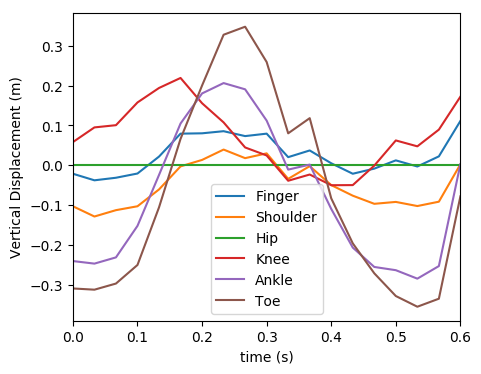
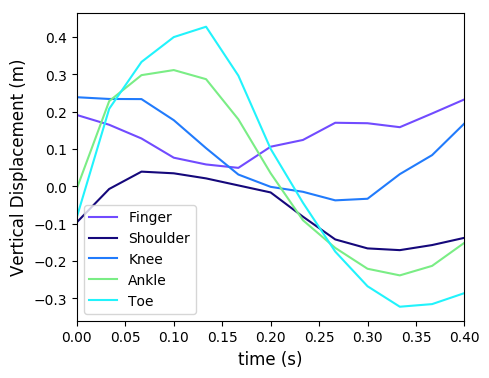
Add files via upload

diff --git a/plotdata.py b/plotdata.py
@@ -1,36 +1,38 @@
-
-import matplotlib.pyplot as plt
 import numpy as np
 
 def plot_data(data, only_keys, mean, p_values):
+
+    #Bug that crashes python when Tk instance 
+    import matplotlib.pyplot as plt  
 
 
     fig1, ax1 = plt.subplots(nrows = 1, ncols=1, figsize=(5,4)) 
 
     # Plot Standard Imported Data
-    data_toplot = data
+    data_toplot = data.drop(['Hip'], axis=1)
     data_toplot.index = data_toplot['t']
+    ax1.set_prop_cycle(color=['#714bff','#15087b','#217bfc','#7aed85','#21f3fc'])
     data_toplot.iloc[:,1:].plot(ax=ax1)
-    ax1.set_ylabel("Vertical Displacement (m)", fontsize=10)
-    ax1.set_xlabel("time (s)", fontsize=10)
+    ax1.set_ylabel("Vertical Displacement (m)", fontsize=12)
+    ax1.set_xlabel("time (s)", fontsize=12)
 
     #Plot Time Intervals
 
-    fig3, axtime = plt.subplots(nrows = 1, ncols =1, figsize= (8,4))
+    fig3, axtime = plt.subplots(nrows = 1, ncols =1, figsize= (8,5.5))
     mean_times = mean['Time'].round(decimals=2)
     data_times = only_keys['Time'].round(decimals=2)
 
-    time_labels = ['Farthest Back to Hips', 'Hips to Farthest Forward', 'Farthest Forwart to Hips', 'Hips To Farthest Back']
+    time_labels = ['Point 4 to 1', 'Point 1 to 2', 'Point 2 to 3', 'Point 3 to 4']
     x = np.arange(len(time_labels))
     width = 0.35
 
-    rects1 = axtime.bar(x - width/2, data_times, width, label='Your Data')
-    rects2 = axtime.bar(x + width/2, mean_times, width, label='Professional Swimmer Averages')
+    rects1 = axtime.bar(x - width/2, data_times, width, label='Your Data',color=(0, 0.1, 0.2, 0.8))
+    rects2 = axtime.bar(x + width/2, mean_times, width, label='Professional Swimmer Averages',color=(0, 0, 0, 0.2))
 
-    axtime.set_ylabel('Time (s)')
+    axtime.set_ylabel('Time (s)',fontsize=12)
     axtime.set_xticks(x)
     axtime.set_yticks([0,0.05,0.1,0.15,0.2,0.25])
-    axtime.set_xticklabels(time_labels,fontsize=8)
+    axtime.set_xticklabels(time_labels,fontsize=12)
     axtime.legend()
 
     def autolabel(rects):
@@ -90,12 +92,12 @@ def plot_data(data, only_keys, mean, p_values):
                 y_values.append(index)
         return x_values, y_values
 
-    plot_data.iloc[0,:].plot(ax=ax2, label="Your Data")
-    plot_mean.iloc[0,:].plot(ax=ax2, label="Elite Swimmer Average")
+    plot_data.iloc[0,:].plot(ax=ax2, label="Your Data",color=(0, 0.1, 0.9,1))
+    plot_mean.iloc[0,:].plot(ax=ax2, label="Elite Swimmer Average",color=(0, 0, 0, 0.7))
     ax2.set_ylim(total_min+(0.05*total_min),total_max+(0.05*total_max))
     ax2.set_xlim(-10,120)
     ax2.set_xticks([])
-    ax2.set_ylabel('Vertical Displacement (normalized)', fontsize=10)
+    ax2.set_ylabel('Vertical Displacement (normalized)', fontsize=11)
     ax2.yaxis.grid()
     
     ys, xs = get_scatterpoints(outliers, plot_data, 0)
@@ -106,8 +108,8 @@ def plot_data(data, only_keys, mean, p_values):
 
     fig2.legend()
 
-    plot_data.iloc[1,:].plot(ax=ax3)
-    plot_mean.iloc[1,:].plot(ax=ax3)
+    plot_data.iloc[1,:].plot(ax=ax3,color=(0, 0.1, 0.9,1))
+    plot_mean.iloc[1,:].plot(ax=ax3,color=(0, 0, 0, 0.7))
     ax3.set_ylim(total_min+(0.05*total_min),total_max+(0.05*total_max))
     ax3.set_xlim(-10,120)
     ax3.set_xticks([])
@@ -116,8 +118,8 @@ def plot_data(data, only_keys, mean, p_values):
     ys, xs = get_scatterpoints(outliers, plot_data, 1)
     ax3.scatter(xs,ys, color='red')
 
-    plot_data.iloc[2,:].plot(ax=ax4)
-    plot_mean.iloc[2,:].plot(ax=ax4)
+    plot_data.iloc[2,:].plot(ax=ax4,color=(0, 0.1, 0.9,1))
+    plot_mean.iloc[2,:].plot(ax=ax4,color=(0, 0, 0, 0.7))
     ax4.set_ylim(total_min+(0.05*total_min),total_max+(0.05*total_max))
     ax4.set_xlim(-10,120)
     ax4.set_xticks([])
@@ -127,8 +129,8 @@ def plot_data(data, only_keys, mean, p_values):
     ys, xs = get_scatterpoints(outliers, plot_data, 2)
     ax4.scatter(xs,ys, color='red')
 
-    plot_data.iloc[3,:].plot(ax=ax5)
-    plot_mean.iloc[3,:].plot(ax=ax5)
+    plot_data.iloc[3,:].plot(ax=ax5,color=(0, 0.1, 0.9,1))
+    plot_mean.iloc[3,:].plot(ax=ax5,color=(0, 0, 0, 0.7))
     ax5.set_ylim(total_min+(0.05*total_min),total_max+(0.05*total_max))
     ax5.set_xlim(-10,120)
     ax5.set_xticks([])

diff --git a/createpdf.py b/createpdf.py
@@ -8,39 +8,52 @@ def create_pdf(name, orientation, gender, speed, fig1_dest, fig2_dest, fig3_dest
     pdf = FPDF()
     pdf.add_page()  
     pdf.set_font('Arial', 'B', 16)
+    pdf.set_text_color(r=0,g=40,b=70)
     pdf.ln()
     pdf.ln()
 
     title = "Dolphin Kick Analysis for {name}".format(name=name)
     pdf.cell(0, 8, title, 0, 1,'C')
 
-    pdf.set_font('Arial', '', 11)
+    pdf.set_font('Arial', '', 10)
+    pdf.set_text_color(r=60,g=60,b=60)
     gender_text = "Gender: {gender}".format(gender=gender)
     orientation_text = "Orientation: {orientation}".format(orientation=orientation)
     speed_text = "Speed: {speed}".format(speed=speed)
-    pdf.cell(65,10,gender_text,0,0,'C')
-    pdf.cell(65,10,orientation_text,0,0,'C')
-    pdf.cell(65,10,speed_text,0,1,'C')
+    subtitle = gender_text +"       "+orientation_text+"      "+speed_text
+    pdf.cell(0,8,subtitle,0,1,'C')
+    pdf.ln()
 
-    pdf.set_font('Arial','B',12)
+    pdf.set_font('Arial','',11)
+    pdf.set_text_color(r=50,g=50,b=50)
     graph1_title = 'Vertical Variation Over Time'
     graph3_title = 'Time Decomposition'
-    pdf.cell(82,8,graph1_title,0,0,'C')
+    pdf.cell(90,8,graph1_title,0,0,'C')
     pdf.cell(120,8,graph3_title,0,1,'C')
 
-    pdf.image(fig1_dest, x=8, y=35, w=80)
-    pdf.image(fig3_dest, x=95, y=35, w=110)
+    pdf.image(fig1_dest, x=7, y=42, h=70)
+    pdf.image(fig3_dest, x=102, y=42, h=66)
 
-    graph2_title = 'Comparison with Elite Swimmers'
+    pdf.set_xy(x=25,y=110)
+    pdf.set_font('Arial','',7)
+    pdf.set_text_color(r=0,g=0,b=0)
+    graph3_explanation = 'Time interval between key points of kick. See below for definitions of key points'
+    graph1_explanation = 'All displacement values calculated relative to hip'
+    pdf.cell(50,8,graph1_explanation,0,0,'C')
+    pdf.cell(127,8,graph3_explanation,0,1,'R')
+    
+
+    graph2_title = 'Statistical Analysis of Vertical Displacement'
     graph2_subtitle = 'Figure shows comparison of vertical displacement of key joints on swimmers body with average vertical displacement of key joints from professional swimmers during four distinct time points within the kick. All statistically significant differences are marked red.'
-    pdf.set_xy(x=10,y=110)
-    pdf.set_font('Arial','B',14)
+    pdf.set_xy(x=10,y=123)
+    pdf.set_font('Arial','',13)
+    pdf.set_text_color(r=50,g=50,b=50)
     pdf.cell(0,8, graph2_title,0,1,'C')
     pdf.set_font('Arial','',9)
+    pdf.set_text_color(r=0,g=0,b=0)
 
-    pdf.image(fig2_dest,x=15, y=120, w=190)
-    pdf.set_xy(x=10,y=240)
-    pdf.ln()
+    pdf.image(fig2_dest,x=15, y=130, w=190)
+    pdf.set_xy(x=20,y=255)
     pdf.multi_cell(0,5, graph2_subtitle,0,1,'C')
 
     file_name = name + "_dolphinkickanalyis"'.pdf'

diff --git a/dolphin.py b/dolphin.py
@@ -8,7 +8,6 @@ if __name__ == '__main__':
     import pandas as pd
     import numpy as np
     from scipy import stats
-    import matplotlib.pyplot as plt
     import os
 
     from Library import import_library
@@ -18,7 +17,8 @@ if __name__ == '__main__':
     from createpdf import create_pdf
 
     #Set up parameters
-    input_values = strtobool(sys.argv[1])
+    # input_values = strtobool(sys.argv[1])
+    input_values = True
 
     if input_values:
         name = input("What is your name? ")
@@ -31,7 +31,6 @@ if __name__ == '__main__':
         speed = input("Are you kicking fast or slow? Enter Fast or Slow: ")
         while (speed != 'Fast') & (speed != 'Slow'):
             speed = input("Please enter Fast or Slow: ")
-        # height = input("What is your height in meters? ")
         while True:
             try:
                 height = float(input("Enter your height in meters: "))
@@ -119,6 +118,8 @@ if __name__ == '__main__':
 
         # Step 6: Create PDF
 
-        create_pdf(name, orientation, gender, speed, fig1_dest, fig2_dest, fig3_dest)
+        create_pdf(name, orientation, gender, speed, fig1_dest, fig2_dest, fig3_dest,destination=destination)
+
+        print("Finished! Your report is located in the same folder as your excel file.")
 
 

diff --git a/keys.py b/keys.py
@@ -1,5 +1,7 @@
 #!/usr/bin/env python
 
+import sys
+
 def find_keys(data):
 
     ankle = data['Ankle']
@@ -16,8 +18,11 @@ def find_keys(data):
             index = index + 1
 
     #First Key Point - Lowest Ankle Point from first point to key_2
-
-    key_1 = ankle.iloc[:key_2].idxmin()
+    try: 
+        key_1 = ankle.iloc[:key_2].idxmin()
+    except:
+        print("The data did not match the inputted orientation. Please try again.")
+        sys.exit()
 
     # Fourth Key Point - Point at which ankles pass hips (becomes negative)
 

diff --git a/CreateDataFrame.py b/CreateDataFrame.py
@@ -8,13 +8,12 @@ from tkinter.filedialog import askopenfilename
 
 import numpy as np
 
-print("1")
+def To_DataFrame(orientation, select=True):
 
-def To_DataFrame(orientation, select=False):
-
-    # Tk().withdraw()
+    Tk().withdraw()
 
     if select:
+        print("Please select the excel file that includes your data")
         filepath = askopenfilename()
     else:
         filepath = "/Users/jennacampbell/Desktop/dolphin/data/NT2.xlsx"
